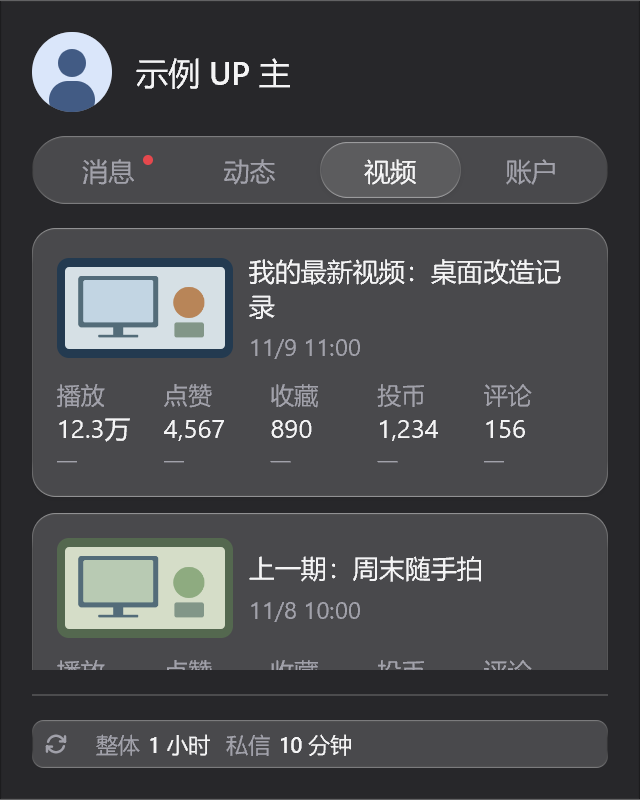
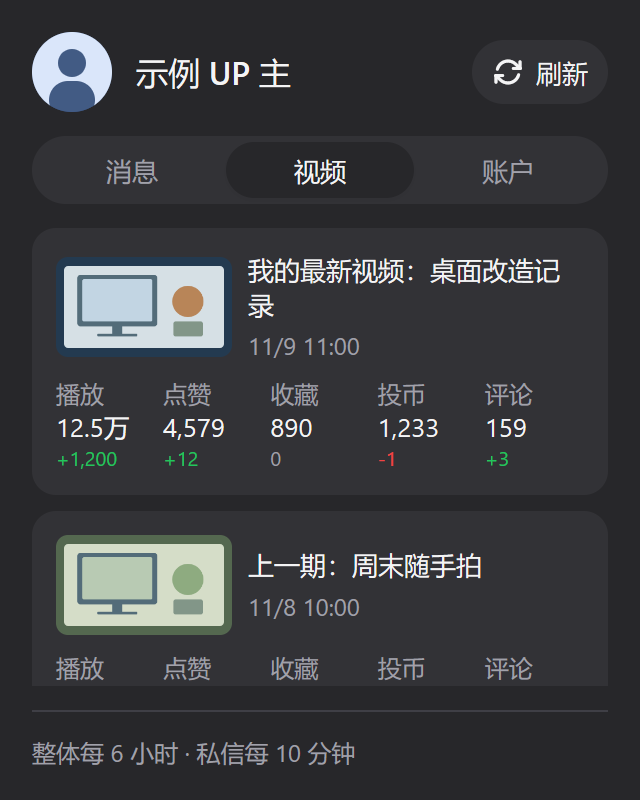
Revert global glass styling to Bilibili 1.19.0

diff --git a/dashboards/bilibili/README.md b/dashboards/bilibili/README.md
@@ -1,6 +1,6 @@
 # BiliBili
 
-[下载当前源码](bilibili-account.bar) · [看板源索引](../../registry/index.json) · **1.20.0（2026-11-11）**
+[下载当前源码](bilibili-account.bar) · [看板源索引](../../registry/index.json) · **1.19.0（2026-11-11）**
 
 在 Metrix.Bar 中查看账户、投稿、消息与动态。整体自动刷新间隔可自定义，默认 **1 小时**；私信独立刷新，默认 **10 分钟**。
 
@@ -30,7 +30,7 @@
 
 界面自动跟随系统明暗主题，并遵循“减少动态效果”设置。UID 与硬币仅在账户页显示，硬核会员标识位于等级旁；长 UID 可悬停查看。视频大数字使用“万／亿”，悬停可查看完整值；点击视频、消息卡片或动态条目打开对应网页。
 
-全局使用同一套 Metrix.Bar 原生 Glass 材质：消息统计与会话、动态列表与作者筛选、视频、账户与图表、导航、底部刷新栏、登录及加载／错误区域统一使用主题玻璃表面。卡片共用细描边和轻阴影，交互悬停也保持玻璃材质；原生输入与选择控件沿用宿主 Glass 样式。根容器不绘制实色背景。二维码保留黑白对比，封面和头像保留图片内容，未读、等级和趋势保留有意义的状态颜色。原有尺寸设置与窗口自动收紧继续有效。
+面板使用 Metrix.Bar 原生 Glass 材质，根容器不绘制实色背景以保留系统材质；账户卡片采用带主题底色的玻璃、细描边和轻阴影，图表绘图区保留清晰底色。硬核会员使用淡红底描边徽章，等级保留 B 站配色。保留紧凑尺寸与窗口自动收紧。
 
 更新后关闭并重新打开面板，新的宿主材质才会生效。按 [Metrix.Bar 材质契约](https://metrix.bar/docs/components#panel-material)，macOS 弹出面板可使用系统 popover／Vibrancy；Windows 等环境由宿主提供 Glass 或回退效果。组件 Glass 仅采样同窗口内容，不能直接模糊桌面，不等同于承诺 Windows Acrylic／Mica。原生预览验证明暗主题和可读性，不能证明桌面透视效果；macOS 实机未验证。
 
@@ -221,7 +221,7 @@
 
 ## 预览
 
-以下所有页面和配置示例均为 **1.20.0**，使用合成的隔离数据由 Metrix.Bar 原生渲染，统一展示全局 Glass 材质；预览不包含桌面背景。
+以下均使用合成的隔离示例数据，由 Metrix.Bar 原生渲染。账户浅色／深色预览为 1.19.0 的 Glass 材质卡片、内嵌趋势图与等级徽章（关闭 UID／硬币）；预览不包含桌面背景。动态与筛选预览为 1.14.2，紧凑会话预览为 1.14.1：
 
 | 账户（浅色） | 账户（深色） |
 | --- | --- |
@@ -236,19 +236,15 @@
 | ![紧凑会话浅色](previews/conversations-compact-light.png) | ![紧凑会话深色](previews/conversations-compact-dark.png) |
 
 <details>
-<summary><strong>其他页面示例</strong> · 当前版本</summary>
+<summary><strong>其他页面示例</strong> · 历史版本截图</summary>
 
-消息、视频、普通会话及扫码登录均采用与账户、动态相同的材质；下方也展示部分功能关闭后的效果。
+以下保留各页面的内容与配置示例，按钮位置和刷新频率可能与当前版本不同；当前界面以顶部预览和正文说明为准。
 
-| 视频（浅色） | 视频（深色） |
+| 视频（深色） | 消息（浅色） |
 | --- | --- |
-| ![视频浅色](previews/videos-light.png) | ![视频深色](previews/videos-dark.png) |
+| ![视频](previews/videos-dark.png) | ![消息](previews/messages-light.png) |
 
-| 消息（浅色） | 消息（深色） |
-| --- | --- |
-| ![消息浅色](previews/messages-light.png) | ![消息深色](previews/messages-dark.png) |
-
-| 视频仅保留播放／点赞／收藏 | 消息仅保留私信／回复／@ |
+| 视频仅保留播放／评论 | 消息仅保留收到的赞 |
 | --- | --- |
 | ![视频自定义](previews/video-custom.png) | ![消息自定义](previews/messages-custom.png) |
 

diff --git a/AGENTS.md b/AGENTS.md
@@ -12,7 +12,7 @@
 
 ## 当前行为与配置兼容
 
-先读 [BiliBili 模块说明](dashboards/bilibili/README.md)。当前版本 **1.20.0（2026-11-11）**：消息、动态、视频、账户、登录及公共导航／底栏全局统一 Glass，根容器保留系统材质；窗口继续按开启模块与尺寸自动收紧。保留独立模块尺寸、曲线高度、7／14／30 天粉丝趋势、昨日摘要、扫码登录、可选手动 SESSDATA、**默认 1 小时、可自定义的整体自动刷新**和手动刷新；启动、配置变更及手动刷新更新所有已启用模块。活跃 Worker、休眠及退出会影响实际执行时间。
+先读 [BiliBili 模块说明](dashboards/bilibili/README.md)。当前版本 **1.19.0（2026-11-11）**：面板启用原生 Glass，根容器移除实色遮挡，账户卡片使用主题玻璃材质；窗口继续按开启模块与尺寸自动收紧。保留独立模块尺寸、曲线高度、7／14／30 天粉丝趋势、昨日摘要、扫码登录、可选手动 SESSDATA、**默认 1 小时、可自定义的整体自动刷新**和手动刷新；启动、配置变更及手动刷新更新所有已启用模块。活跃 Worker、休眠及退出会影响实际执行时间。
 
 ### 功能与设置
 
@@ -111,7 +111,7 @@
 ## 原生界面与验证
 
 - 组件契约以运行中应用 `GET /v0/types` 为准，使用原生主题令牌与组件，不把网页 DOM 或 CSS 直接搬入 Worker。
-- 根 `<bar material="glass">` 控制宿主材质，根容器不得用不透明背景覆盖；宿主材质更新下次打开生效。所有页面和状态共用 `GLASS_MATERIAL`、`GLASS_SURFACE`、`GLASS_HOVER`：消息统计／会话、动态列表／筛选、视频、账户／图表、导航、底栏、登录及加载／错误区域均须覆盖。悬停使用 material 而非会被基础材质覆盖的 background；二维码、图片和语义状态色保持可读。原生输入／选择控件继承宿主 Glass。组件 Glass 不能采样桌面，不以预览声称实机 Acrylic／Mica 已通过；更改公共材质须检查所有页面明暗主题。
+- 根 `<bar material="glass">` 控制宿主材质，根容器不得用不透明背景覆盖；宿主材质更新下次打开生效。账户卡片复用 `ACCOUNT_SURFACE` 的 glass／regular／surface 材质、细边框及轻阴影；图表保留独立绘图区。组件 Glass 不能采样桌面；macOS 系统材质与 Windows 回退效果须区分，不以预览声称实机 Acrylic／Mica 已通过。保留等级官方配色、淡红底硬核会员徽章与自适应尺寸。
 - 保留减少动态效果、键盘交互、资源清理、页面切换，以及模块 README 中的数据口径、布局和动效时长。
 - 按改动选择最窄且有效的检查，交付时只报告实际执行的结果与环境。用户报告的错误是证据，不用重复检查来否定。
 - 新增回归覆盖真实失败、账户隔离、取消或字段边界，避免断言源码文本或重复实现。

diff --git a/CHANGELOG.md b/CHANGELOG.md
@@ -2,11 +2,6 @@
 
 按版本倒序记录 BiliBili 看板的行为变化与迁移事项。旧版本条目描述当时的行为；当前配置与使用方法见[模块说明](dashboards/bilibili/README.md)。
 
-## 1.20.0 — 2026-11-11
-
-- 将账户专用材质改为全局共享玻璃样式，覆盖消息通知与私信会话、动态列表与筛选、视频卡片、账户图表、导航选中态、底部刷新栏、登录及加载／错误区域。
-- 悬停统一切换玻璃底色，移除其他页面的实色面板残留；二维码保留黑白对比，未读和等级标识保留状态颜色。所有页面、明暗主题及配置示例预览更新至当前版本。
-
 ## 1.19.0 — 2026-11-11
 
 - 面板从 Solid 切换为宿主 Glass，移除根容器不透明背景，避免盖住系统材质；外层圆角收至 16，账户卡片使用原生玻璃材质，保留细描边和清晰图表底色。
